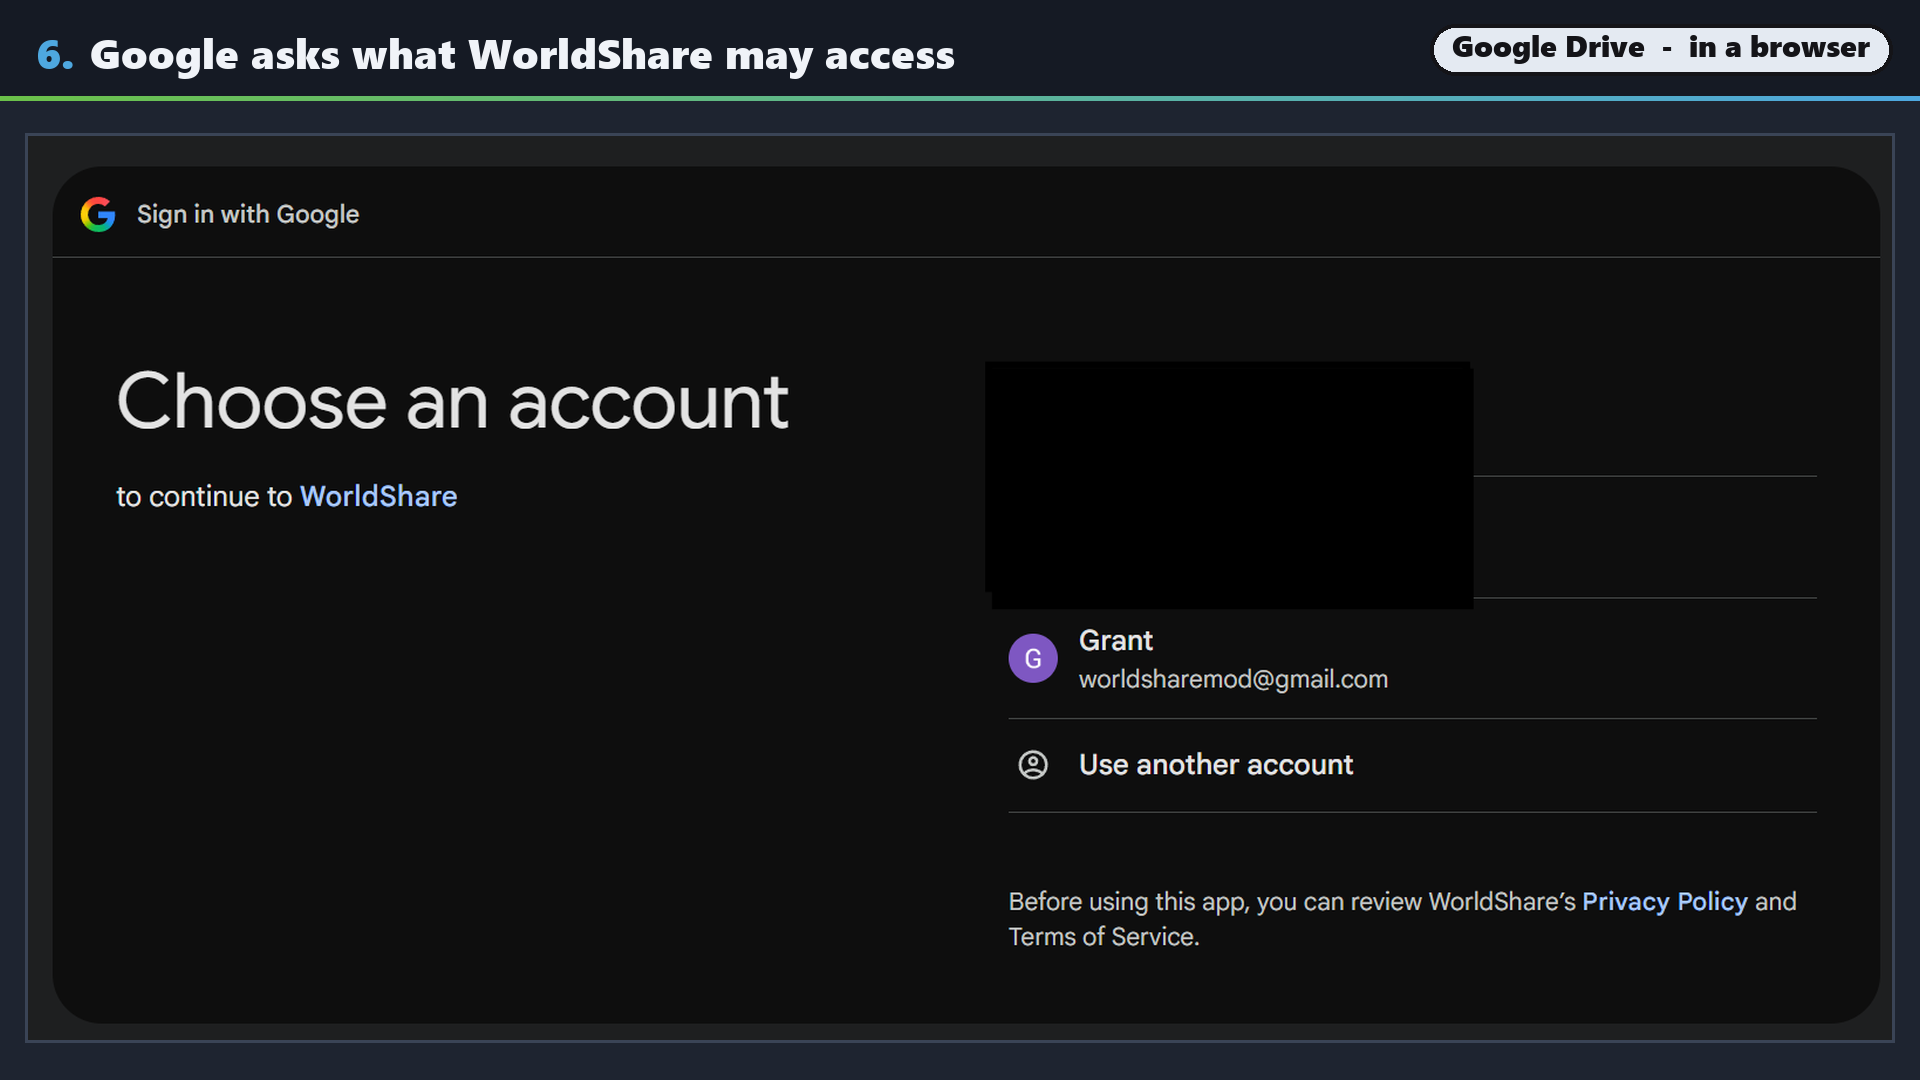
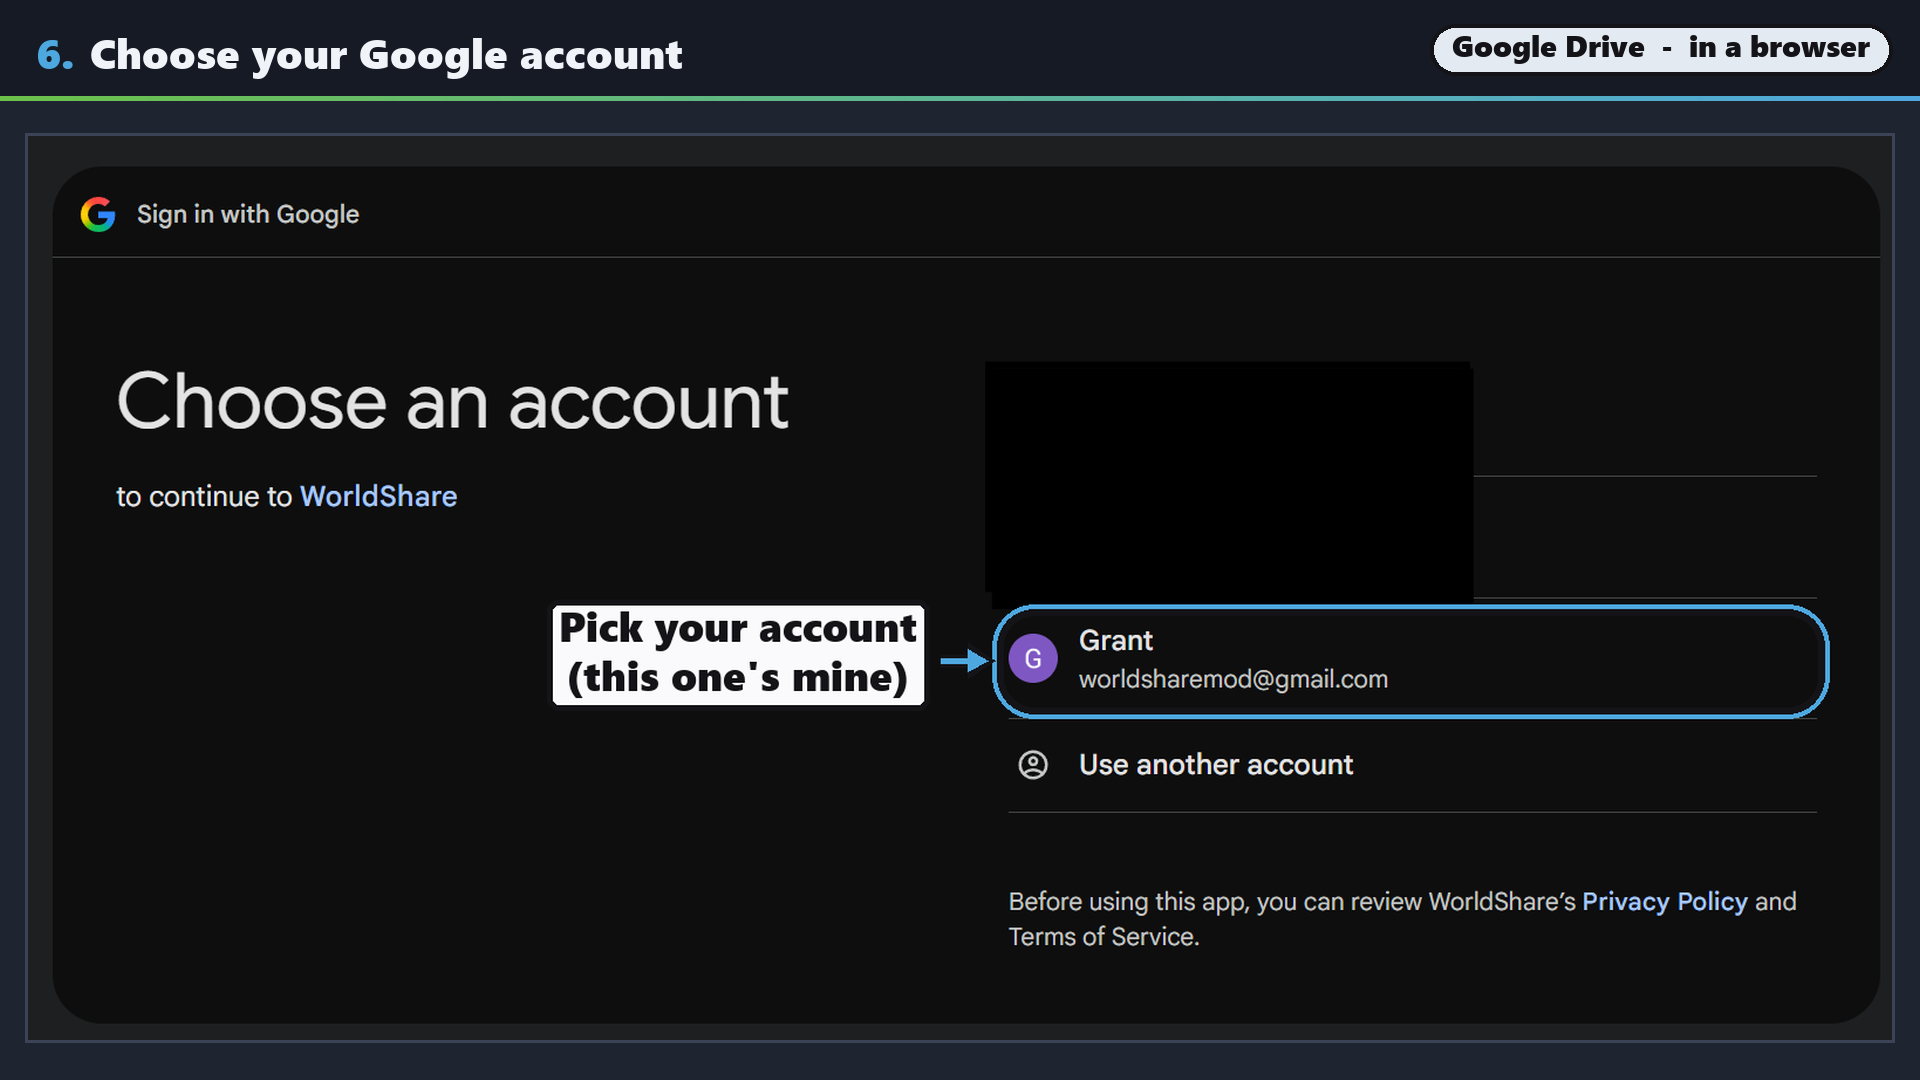
Mark the decision points the walkthrough was silent about
Every screen where the viewer has to click something now says so. The gaps were
all in the sign-in stretch, which is the part a first-timer has never seen and
the part where nothing on screen is labelled in the mod's own words.

  host 2   Play Selected World
  host 4   [Click here to authorize] - a chat line, not a widget, so the ring
           is an explicit rect against the cropped panel
  host 5   Yes
  host 6   the account row
  host 7   Continue
  guest 9  both cards moved off the bottom edge

Two labelling errors fixed while in there. Host 5 was captioned "Choose your
Google account", which is host 6's screen - it is the game's own "open a link?"
guard, so it is retitled and re-badged Account A rather than Google Drive.
Host 13's ring was on Mods; Save and Upload to Drive is button 8.

Cards can now hold more than one line - Pillow routes a string containing a
newline through its multiline path by itself, so this is a matching align and
nothing else - and a step can override the label size when its screenshot is
wide and short enough that the default lands small beside chat text.

diff --git a/docs/guide/spec.py b/docs/guide/spec.py
@@ -28,22 +28,36 @@ HOST = [
          marks=[dict(at="button:2", label="Everything starts here", side="left")]),
 
     dict(n=2, file="WorldShareInSinglePlayer.png", account="A",
-         title="Open the world you want to share", marks=[]),
+         title="Open the world you want to share",
+         marks=[dict(at="button:0", label="Pick your world, then Play",
+                     side="above")]),
 
     dict(n=3, file="RunningWorldshareSetup.png", crop=(0.0, 0.84, 0.80, 0.16), account="A",
          title="Run /worldshare setup", marks=[]),
 
     dict(n=4, file="RanWorldShareSetup.png", crop="chat", account="A",
-         title="Click the link to sign in to Google", marks=[]),
+         title="Click the link to sign in to Google", label_size=60,
+         # Fractions of the CROPPED chat panel, not the whole window.
+         marks=[dict(at=(0.008, 0.637, 0.395, 0.115), label="Click this",
+                     side="right")]),
 
-    dict(n=5, file="WorldShare1stAuthorizationForSetup.png", account="drive",
-         title="Choose your Google account", marks=[]),
+    # Still in Minecraft, not the browser - this is the game's own "open a
+    # link?" guard, so it carries the player's badge, not Drive's.
+    dict(n=5, file="WorldShare1stAuthorizationForSetup.png", account="A",
+         title="Minecraft asks before opening the link",
+         marks=[dict(at="button:0", label="Click Yes", side="below")]),
 
     dict(n=6, file="Worldshare2ndAuthorizationForSetup.png", account="drive",
-         title="Google asks what WorldShare may access", marks=[]),
+         title="Choose your Google account",
+         marks=[dict(at=(0.522, 0.528, 0.440, 0.108),
+                     label="Pick your account\n(this one's mine)", side="left")]),
 
     dict(n=7, file="Worldshare3rdAuthorizationForSetup.png", account="drive",
-         title="Approve it", marks=[]),
+         title="Approve it",
+         # The card overruns "share data safely" - which is a link in a
+         # screenshot, so nobody was going to click it anyway.
+         marks=[dict(at=(0.750, 0.864, 0.215, 0.070), label="Click here",
+                     side="above")]),
 
     dict(n=8, file="WorldShareSetupAuthorized.png", account="drive",
          title="Done - go back to Minecraft", marks=[]),
@@ -124,12 +138,16 @@ GUEST = [
 
     dict(n=9, file="WorldshareAuthStep4ForJoiningWorld.png", account="drive",
          title="Select every file, then Insert",
+         # Both cards point up into the empty half of the picker. Sending the
+         # Insert one left jammed it into the bottom-right corner, where it
+         # collided with its own ring and the shot edge.
          marks=[
-             dict(at=(0.020, 0.950, 0.095, 0.040),
-                  label="Ctrl+A selects them all - every file is needed",
+             dict(at=(0.014, 0.959, 0.074, 0.028),
+                  label="Ctrl+A selects them all" + chr(10)
+                        + "every file is needed",
                   side="above"),
-             dict(at=(0.941, 0.953, 0.052, 0.037), label="Then Insert",
-                  side="left"),
+             dict(at=(0.944, 0.954, 0.045, 0.034), label="Then Insert",
+                  side="above"),
          ]),
 
     # Two rows, one slide: what you see depends on whether e4mc is installed.

diff --git a/docs/guide/annotate.py b/docs/guide/annotate.py
@@ -211,7 +211,9 @@ def arrow(d, start, end, width=9, accent=None):
 
 
 def measure(d, text, font, pad):
-    b = d.textbbox((0, 0), text, font=font)
+    # Pillow routes a string containing a newline through its multiline path on
+    # its own, so a two-line label needs nothing here but the matching align.
+    b = d.textbbox((0, 0), text, font=font, align="center")
     return (b[2] - b[0] + pad * 2, b[3] - b[1] + pad * 2, b)
 
 
@@ -222,7 +224,8 @@ def callout(d, xy, text, font, pad=18):
     w, h, b = measure(d, text, font, pad)
     d.rounded_rectangle([x, y, x + w, y + h],
                         radius=pad, fill=PAPER, outline=INK, width=5)
-    d.text((x + pad - b[0], y + pad - b[1]), text, font=font, fill=INK)
+    d.text((x + pad - b[0], y + pad - b[1]), text, font=font, fill=INK,
+           align="center")
 
 
 def place_label(d, box, text, font, canvas, want, scale, obstacles=()):
@@ -323,7 +326,10 @@ def render(step, shrink=1.0, accent=None):
     scale = 1.0 / max(0.05, shrink)                      # specs are written against ~1900px wide
     d = ImageDraw.Draw(img)
 
-    f_label = font_at(max(20, int(30 * scale)))
+    # 42 reads well at the sizes most shots letterbox to. A step can ask for
+    # more when its screenshot is wide and short, so the card lands next to
+    # chat text that is itself huge on the finished slide.
+    f_label = font_at(max(28, int(step.get("label_size", 42) * scale)))
     f_badge = font_at(max(24, int(40 * scale)))
 
     for a in step.get("marks", []):
